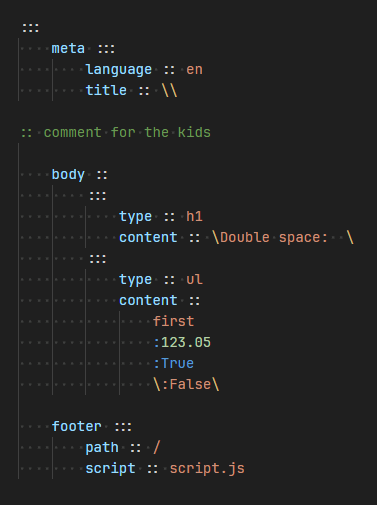
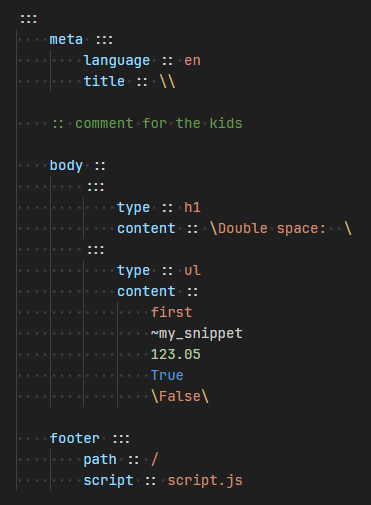
syntax changes, ~snippets

diff --git a/README.md b/README.md
@@ -6,22 +6,24 @@ This extension provides syntax highlighting for ColSON, a minimalist language th
 
 | ColSON         | JSON             |
 | -------------- | ---------------- |
-| `::`           | `[]`             |
-| `:::`          | `{}`             |
-| `:True`        | `true`           |
-| `:False`       | `false`          |
-| `:None`        | `null`           |
-| `:123.5e-2`    | `123.5e-2`       |
+| `::`           | `[`              |
+| `:::`          | `{`              |
+| `True`         | `true`           |
+| `False`        | `false`          |
+| `None`         | `null`           |
+| `123.5e-2`     | `123.5e-2`       |
 | `key :: value` | `"key": "value"` |
 | `key :::`      | `"key": {}`      |
 | `key ::`       | `"key": []`      |
 | `:: comment`   | _skipped_        |
 | `\\`           | `""`             |
-| `\:False\`     | `":False"`       |
-| `:snippet`     | _not applicable_ |
+| `\False\`      | `"False"`        |
+| `~snippet`     | `"~snippet"`     |
 
 - Consistent indentation is important.
 - Empty lines are optional.
+- Snippets start with `~` and may contain only letters, numbers, `-` and `_`.
+- Snippets are treated as strings but allow you to see suggestions.
 
 ## Example
 
@@ -44,7 +46,7 @@ This extension provides syntax highlighting for ColSON, a minimalist language th
     },
     {
       "type": "ul",
-      "content": ["first", 123.05, true, ":False"]
+      "content": ["first", "~my_snippet", 123.05, true, "False"]
     }
   ],
   "footer": {
